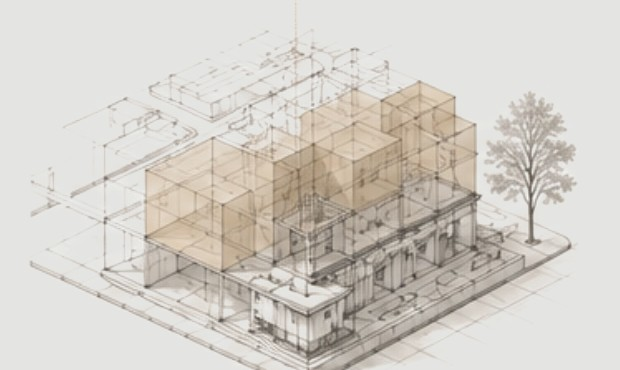
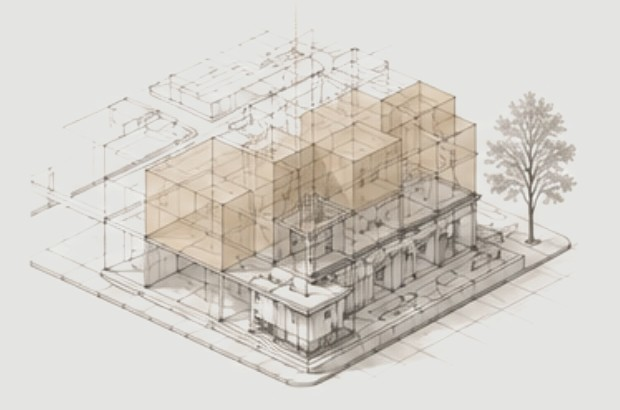
Rebuild Capabilities diagram to match reference composition; fix illustration clipping
Reworks the four-stage layout (title, timeline with node/chevron, illustration, list, bottom bracket connector) to closely follow the supplied reference while keeping the site grey background. Also fixes the architectural illustrations being cropped: the source crops did not leave enough clearance for each drawing tapering linework, so they were re-cropped with proper margin and an edge feather, and given a shared aspect ratio so all four render at an identical size with no clipping.

diff --git a/index.html b/index.html
@@ -218,56 +218,15 @@
         }
         #capabilities .cap-stage {
             position: relative;
+            margin-bottom: 48px;
+        }
+        @media (min-width: 640px) {
+            #capabilities .cap-stage {
+                margin-bottom: 0;
+            }
         }
         #capabilities .cap-stage-head {
             position: relative;
-            margin-bottom: 20px;
-        }
-        /* Not part of the grid flow at any width by default — it's purely
-           decorative and only enabled (as an absolutely-positioned overlay,
-           see below) once all four stages sit in a single desktop row.
-           Without this, it would otherwise sit in the grid as an empty
-           first cell and shift every stage over by one at the sm/tablet
-           2-column breakpoint. */
-        #capabilities .cap-connector {
-            display: none;
-        }
-        /* The continuous connector line + dots + between-stage arrows only
-           make sense once all four stages sit in a single row, so they're
-           desktop-only (see the lg: breakpoint below). */
-        @media (min-width: 1024px) {
-            #capabilities .cap-stages {
-                padding-top: 44px;
-            }
-            #capabilities .cap-connector {
-                display: block;
-                position: absolute;
-                top: 12px;
-                left: 0;
-                right: 0;
-                height: 1px;
-                background: var(--cap-line);
-            }
-            #capabilities .cap-stage-head::before {
-                content: '';
-                position: absolute;
-                top: -32px;
-                left: 0;
-                width: 9px;
-                height: 9px;
-                border-radius: 50%;
-                background: var(--bg-capabilities);
-                border: 1.5px solid var(--accent);
-            }
-            #capabilities .cap-stage:not(:last-child) .cap-stage-head::after {
-                content: '\2192';
-                position: absolute;
-                top: -38px;
-                right: -28px;
-                color: var(--accent);
-                font-size: 13px;
-                opacity: 0.8;
-            }
         }
         #capabilities .cap-num {
             display: block;
@@ -283,11 +242,69 @@
             text-transform: uppercase;
             color: var(--text-primary);
         }
+
+        /* Stage timeline — a fine line with a node, running directly
+           beneath each stage's title. At desktop, where all four stages
+           sit in one row, a small chevron (or a closing arrow on the
+           final stage) bridges into the next column so the four lines
+           read as one continuous progression. */
+        #capabilities .cap-timeline {
+            position: relative;
+            height: 20px;
+            margin: 20px 0 28px;
+        }
+        #capabilities .cap-timeline::before {
+            content: '';
+            position: absolute;
+            top: 50%;
+            left: 0;
+            right: 0;
+            height: 1px;
+            background: var(--cap-line);
+            transform: translateY(-50%);
+        }
+        #capabilities .cap-node {
+            position: absolute;
+            top: 50%;
+            left: 50%;
+            width: 9px;
+            height: 9px;
+            border-radius: 50%;
+            background: var(--bg-capabilities);
+            border: 1.5px solid var(--accent);
+            transform: translate(-50%, -50%);
+        }
+        @media (min-width: 1024px) {
+            #capabilities .cap-stage:not(:last-child) .cap-timeline::after {
+                content: '\203A';
+                position: absolute;
+                top: 50%;
+                right: -22px;
+                transform: translateY(-58%);
+                color: var(--accent);
+                font-size: 15px;
+                line-height: 1;
+            }
+            #capabilities .cap-stage:last-child .cap-timeline::after {
+                content: '\2192';
+                position: absolute;
+                top: 50%;
+                right: -4px;
+                transform: translateY(-50%);
+                color: var(--accent);
+                font-size: 13px;
+            }
+        }
+
+        #capabilities .cap-illustration {
+            aspect-ratio: 3 / 2;
+            margin-bottom: 24px;
+        }
         #capabilities .cap-illustration img {
             display: block;
             width: 100%;
-            height: auto;
-            margin-bottom: 24px;
+            height: 100%;
+            object-fit: contain;
         }
         #capabilities .cap-list {
             list-style: none;
@@ -299,7 +316,7 @@
             padding-left: 14px;
             margin-bottom: 10px;
             font-size: 0.9rem;
-            line-height: 1.5;
+            line-height: 1.6;
             color: var(--text-secondary);
         }
         #capabilities .cap-list li::before {
@@ -313,10 +330,45 @@
             opacity: 0.6;
         }
 
+        /* Bottom connector — desktop-only bracket that gathers the four
+           lists back into one line, reinforcing "one integrated
+           platform". The outer two verticals curve into the horizontal
+           via border-radius; the inner two are plain straight drops. */
+        #capabilities .cap-connector-wrap {
+            display: none;
+        }
+        @media (min-width: 1024px) {
+            #capabilities .cap-connector-wrap {
+                display: block;
+                position: relative;
+                height: 34px;
+                margin-top: 4px;
+            }
+            #capabilities .cap-bracket {
+                position: absolute;
+                left: 12.5%;
+                right: 12.5%;
+                top: 0;
+                height: 28px;
+                border-left: 1px dashed var(--cap-line);
+                border-right: 1px dashed var(--cap-line);
+                border-bottom: 1px solid var(--cap-line);
+                border-radius: 0 0 14px 14px;
+            }
+            #capabilities .cap-bracket-mid {
+                position: absolute;
+                top: 0;
+                height: 28px;
+                border-left: 1px dashed var(--cap-line);
+            }
+            #capabilities .cap-bracket-mid.mid-1 { left: 37.5%; }
+            #capabilities .cap-bracket-mid.mid-2 { left: 62.5%; }
+        }
+
         #capabilities .cap-lifecycle {
-            margin-top: 72px;
-            padding-top: 32px;
-            border-top: 1px dashed var(--cap-line);
+            margin-top: 40px;
+            padding-top: 28px;
+            border-top: 1px solid var(--divider);
             display: flex;
             flex-wrap: wrap;
             align-items: center;
@@ -332,6 +384,13 @@
         #capabilities .cap-lifecycle-arrow {
             opacity: 0.7;
             letter-spacing: normal;
+        }
+        @media (min-width: 1024px) {
+            #capabilities .cap-lifecycle {
+                margin-top: 4px;
+                padding-top: 16px;
+                border-top: none;
+            }
         }
 
         #capabilities [data-reveal] {
@@ -352,38 +411,6 @@
         #capabilities [data-reveal="stage"]:nth-of-type(4) { transition-delay: 660ms; }
         #capabilities [data-reveal="lifecycle"] { transition-delay: 780ms; }
 
-        /* True single-column mobile: vertical journey with a connecting
-           line down the left edge. This is intentionally narrower than
-           the sm: tablet breakpoint below, since the 2x2 tablet grid
-           doesn't suit a single vertical line. */
-        @media (max-width: 639px) {
-            #capabilities .cap-stage {
-                position: relative;
-                padding-left: 28px;
-                margin-bottom: 48px;
-            }
-            #capabilities .cap-stage:not(:last-child)::before {
-                content: '';
-                position: absolute;
-                top: 6px;
-                bottom: -40px;
-                left: 4px;
-                width: 1px;
-                background: var(--cap-line);
-            }
-            #capabilities .cap-stage-head::before {
-                content: '';
-                position: absolute;
-                top: 4px;
-                left: -28px;
-                width: 9px;
-                height: 9px;
-                border-radius: 50%;
-                background: var(--bg-capabilities);
-                border: 1.5px solid var(--accent);
-            }
-        }
-
         @media (prefers-reduced-motion: reduce) {
             #capabilities [data-reveal] {
                 opacity: 1;
@@ -395,7 +422,7 @@
 </head>
 <body class="bg-white">
     <!-- Navigation -->
-    <nav class="sticky top-0 bg-white border-b border-gray-100 z-50">
+    <nav class="sticky top-0 bg-white border-b border-[#d6d8d8] z-50">
         <div class="max-w-7xl mx-auto px-6 py-4 flex items-center justify-between">
             <div class="flex items-center gap-3">
                 <img src="Metaform_Mark.png" alt="Metaform" style="height: 36px; width: auto;">
@@ -418,7 +445,7 @@
         </div>
 
         <!-- Mobile Menu -->
-        <div id="mobileMenu" class="hidden md:hidden bg-gray-50 border-t border-gray-100 p-6 flex flex-col gap-4">
+        <div id="mobileMenu" class="hidden md:hidden bg-gray-50 border-t border-[#d6d8d8] p-6 flex flex-col gap-4">
             <a href="#about" class="text-sm hover:text-gray-600">About</a>
             <a href="#capabilities" class="text-sm hover:text-gray-600">Capabilities</a>
             <a href="#projects" class="text-sm hover:text-gray-600">Projects</a>
@@ -448,7 +475,7 @@
                 <img src="Metaform_Mark_White.png" alt="Metaform" style="height: 144px; width: auto; opacity: 0.5;" class="mx-auto drop-shadow-2xl">
             </div>
             <h1 class="hero-heading text-white">
-                Unlocking Potential. <span class="font-semibold">Creating Value.</span>
+                Unlocking Potential. Creating Value.
             </h1>
             <p class="mt-4 text-sm md:text-base font-light text-gray-300 tracking-wide">
                 Design-led real estate investment and development.
@@ -559,13 +586,12 @@
             </div>
 
             <div class="cap-stages grid sm:grid-cols-2 lg:grid-cols-4 gap-x-8 gap-y-14">
-                <div class="cap-connector" aria-hidden="true"></div>
-
                 <div class="cap-stage" data-reveal="stage">
                     <div class="cap-stage-head">
                         <span class="cap-num">01</span>
                         <h3 class="cap-title">Investment</h3>
                     </div>
+                    <div class="cap-timeline" aria-hidden="true"><span class="cap-node"></span></div>
                     <div class="cap-illustration" aria-hidden="true">
                         <img src="images/capabilities/01-investment.jpg" alt="" loading="lazy">
                     </div>
@@ -584,6 +610,7 @@
                         <span class="cap-num">02</span>
                         <h3 class="cap-title">Development</h3>
                     </div>
+                    <div class="cap-timeline" aria-hidden="true"><span class="cap-node"></span></div>
                     <div class="cap-illustration" aria-hidden="true">
                         <img src="images/capabilities/02-development.jpg" alt="" loading="lazy">
                     </div>
@@ -602,6 +629,7 @@
                         <span class="cap-num">03</span>
                         <h3 class="cap-title">Delivery</h3>
                     </div>
+                    <div class="cap-timeline" aria-hidden="true"><span class="cap-node"></span></div>
                     <div class="cap-illustration" aria-hidden="true">
                         <img src="images/capabilities/03-delivery.jpg" alt="" loading="lazy">
                     </div>
@@ -620,6 +648,7 @@
                         <span class="cap-num">04</span>
                         <h3 class="cap-title">Realisation</h3>
                     </div>
+                    <div class="cap-timeline" aria-hidden="true"><span class="cap-node"></span></div>
                     <div class="cap-illustration" aria-hidden="true">
                         <img src="images/capabilities/04-realisation.jpg" alt="" loading="lazy">
                     </div>
@@ -632,6 +661,12 @@
                         <li>Investor reporting</li>
                     </ul>
                 </div>
+            </div>
+
+            <div class="cap-connector-wrap" aria-hidden="true">
+                <div class="cap-bracket"></div>
+                <div class="cap-bracket-mid mid-1"></div>
+                <div class="cap-bracket-mid mid-2"></div>
             </div>
 
             <div class="cap-lifecycle" data-reveal="lifecycle">
@@ -752,7 +787,7 @@
     </section>
 
     <!-- Footer -->
-    <footer class="bg-white border-t border-gray-100 py-12 px-6">
+    <footer class="bg-white border-t border-[#d6d8d8] py-12 px-6">
         <div class="max-w-6xl mx-auto">
             <div class="flex flex-col md:flex-row items-center justify-between gap-8">
                 <div class="flex items-center gap-2">
